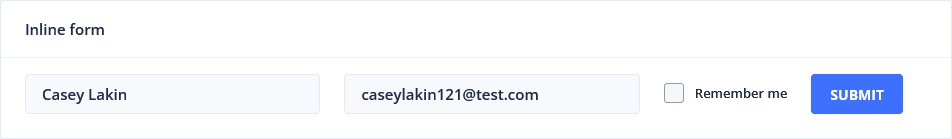
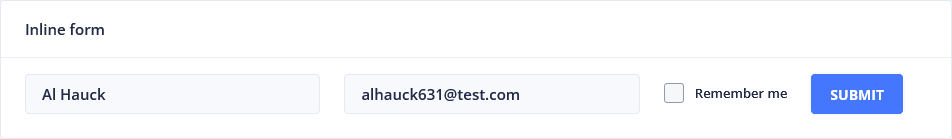
Environment Variables

Changed region(s): [[0.3655, 0.6331, 0.5788, 0.7482], [0.0305, 0.6331, 0.1523, 0.7482]]

diff --git a/playwright-report/index.html b/playwright-report/index.html
@@ -68,4 +68,4 @@ Error generating stack: `+u.message+`
   </body>
 </html>
 <script>
[2 lines of base64/hex data omitted]

diff --git a/playwright.config.ts b/playwright.config.ts
@@ -1,9 +1,11 @@
 import { defineConfig, devices } from '@playwright/test';
+import type { TestOptions } from './test-options';
 
 /**
  * Read environment variables from file.
  * https://github.com/motdotla/dotenv
  */
+require('dotenv').config();
 // import dotenv from 'dotenv';
 // import path from 'path';
 // dotenv.config({ path: path.resolve(__dirname, '.env') });
@@ -11,7 +13,7 @@ import { defineConfig, devices } from '@playwright/test';
 /**
  * See https://playwright.dev/docs/test-configuration.
  */
-export default defineConfig({
+export default defineConfig<TestOptions>({
   timeout: 40000,
   globalTimeout: 60000,
   expect: {timeout: 2000},
@@ -29,8 +31,11 @@ export default defineConfig({
   /* Shared settings for all the projects below. See https://playwright.dev/docs/api/class-testoptions. */
   use: {
     /* Base URL to use in actions like `await page.goto('/')`. */
-    // baseURL: 'http://127.0.0.1:3000',
-
+    //baseURL: 'http://localhost:4200/',
+    baseURL: process.env.DEV == '1' ? 'http://localhost:4201/'
+      : process.env.STAGING == '1' ? 'http://localhost:4202'
+      : 'http://localhost:4200',
+    globalsQaURL: 'https://www.globalsqa.com/demo-site/draganddrop/',
     /* Collect trace when retrying the failed test. See https://playwright.dev/docs/trace-viewer */
     trace: 'on-first-retry',
     //actionTimeout: 5000,
@@ -43,6 +48,19 @@ export default defineConfig({
 
   /* Configure projects for major browsers */
   projects: [
+    {
+      name: 'dev-firefox',
+      use: { ...devices['Desktop Firefox'],
+        baseURL: 'http://localhost:4201/'
+       },
+    },
+
+    {
+      name: 'staging-firefox',
+      use: { ...devices['Desktop Firefox'],
+        baseURL: 'http://localhost:4202/' },
+    },
+
     {
       name: 'chromium',
       use: { ...devices['Desktop Chrome'] },

diff --git a/tests/usePageObjects.spec.ts b/tests/usePageObjects.spec.ts
@@ -3,7 +3,7 @@ import { PageManager } from '../page-objects/pageManager'
 import { faker } from '@faker-js/faker'    
 
 test.beforeEach(async({page}, testInfo) => {
-    await page.goto('http:/localhost:4200')
+    await page.goto('/')
 })
 
 test('navigate to form page', async({page}) => {
@@ -22,7 +22,7 @@ test('parametrized methods', async({page}) => {
     const randomEmail = `${randomFullName.replace(' ','').replace('\'', '').replace('Mr.', '').replace('Mrs.', '').toLowerCase()}${faker.number.int(1000)}@test.com`
 
     await pm.navigateTo().formLaoyutsPage()
-    await pm.onFormLayoutsPage().submitUsingTheGridFormWithCredentialsAndSelectOption('test@test.com', 'password123', 'Option 2')
+    await pm.onFormLayoutsPage().submitUsingTheGridFormWithCredentialsAndSelectOption(process.env.USER, process.env.PASSWORD, 'Option 2')
     await page.screenshot({path: 'screenshots/formsLayoutsPage.png'})
     await pm.onFormLayoutsPage().submitInlineFormWithNameEmailAndCHeckbox(randomFullName, randomEmail, false)
     await page.locator('nb-card', {hasText: 'Inline form'}).screenshot({path: 'screenshots/inlineForm.png'})

diff --git a/tests/autoWaiting.spec.ts b/tests/autoWaiting.spec.ts
@@ -1,7 +1,7 @@
 import {test, expect} from '@playwright/test'
 
 test.beforeEach(async({page}, testInfo) => {
-    await page.goto('http://uitestingplayground.com/ajax/')
+    await page.goto(process.env.URL)
     await page.getByText('Button Triggering AJAX Request').click()
     testInfo.setTimeout(testInfo.timeout + 2000)
 })
@@ -20,7 +20,7 @@ test('auto waiting', async({page}) => {
     await expect(successButton).toHaveText('Data loaded with AJAX get request.', {timeout: 20000})
 })
 
-test.skip('alternative waits', async({page}) => {
+test('alternative waits', async({page}) => {
     const successButton = page.locator('.bg-success')
 
     //___ wait for element
@@ -36,7 +36,7 @@ test.skip('alternative waits', async({page}) => {
     expect(text).toContain('Data loaded with AJAX get request.')
 })
 
-test.skip('timeouts', async({page}) => {
+test('timeouts', async({page}) => {
     //test.setTimeout(10000)
     test.slow()
     const successButton = page.locator('.bg-success')

diff --git a/tests/dragAndDropWithiFrames.spec.ts b/tests/dragAndDropWithiFrames.spec.ts
@@ -1,7 +1,8 @@
-import {test, expect} from '@playwright/test'
+import {expect} from '@playwright/test'
+import {test} from '../test-options'
 
-test.beforeEach(async({page}, testInfo) => {
-    await page.goto('https://www.globalsqa.com/demo-site/draganddrop/')
+test.beforeEach(async({page, globalsQaURL}) => {
+    await page.goto(globalsQaURL)
     await page.getByRole('button').getByText('Consent').click()
 })
 

diff --git a/tests/uiComponents.spec.ts b/tests/uiComponents.spec.ts
@@ -3,7 +3,7 @@ import {test, expect} from '@playwright/test'
 //test.describe.configure({mode: 'parallel'})
 
 test.beforeEach(async({page}, testInfo) => {
-    await page.goto('http:/localhost:4200')
+    await page.goto('/')
 })
 //test.describe.parallel()
 test.describe('Form Layouts page', () => {

diff --git a/tests/firstTest.spec.ts b/tests/firstTest.spec.ts
@@ -1,7 +1,7 @@
 import {test, expect} from '@playwright/test'
 
 test.beforeEach(async({page}) => {
-    await page.goto('http://localhost:4200/')
+    await page.goto('/')
     await page.getByText('Forms').click()
     await page.getByText('Form Layouts').click()
 })

diff --git a/test-options.ts b/test-options.ts
@@ -1,0 +1,9 @@
+import { test as base } from '@playwright/test'
+
+export type TestOptions = {
+    globalsQaURL: string,
+}
+
+export const test = base.extend<TestOptions>({
+    globalsQaURL: ['', {option: true}]
+})
